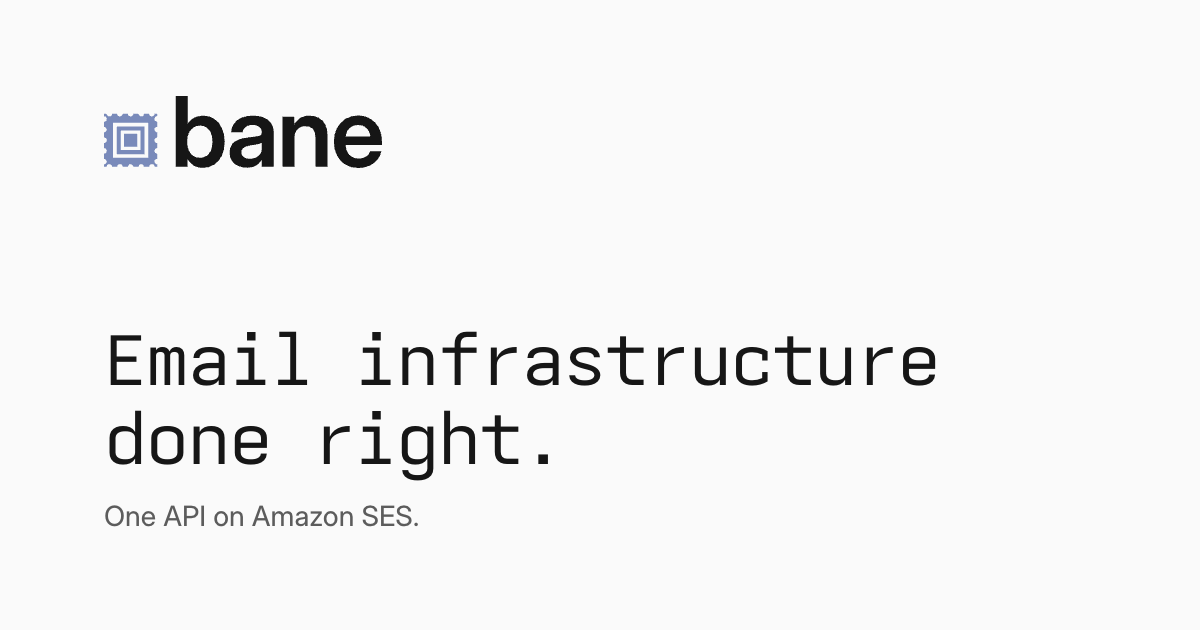
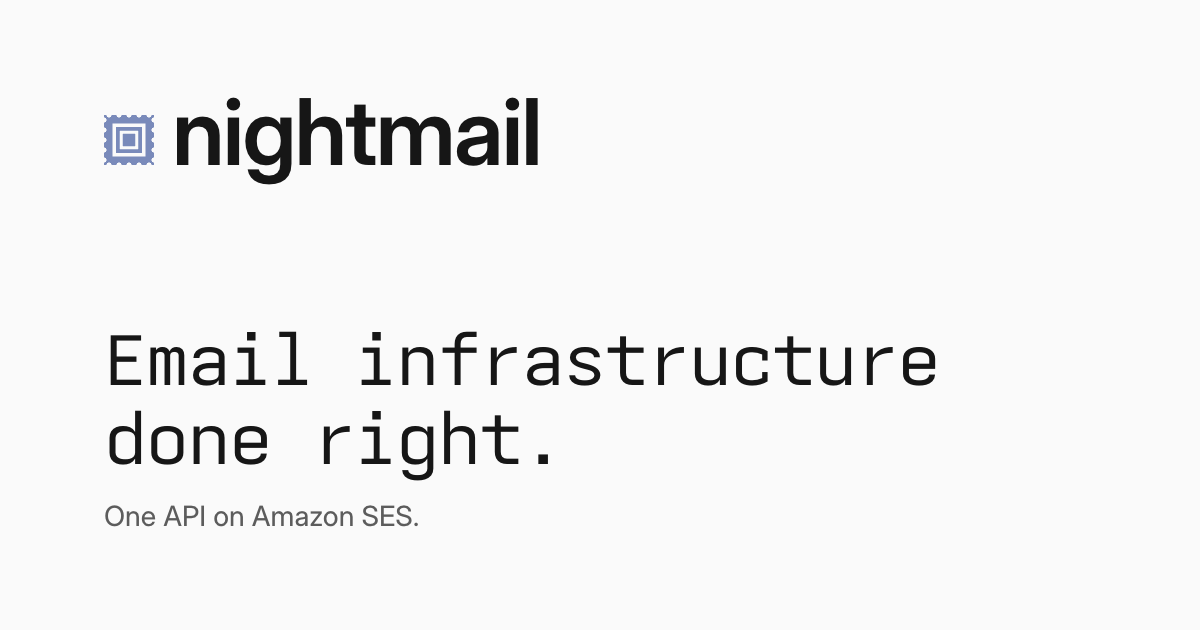
Wordmark: set "nightmail" as text next to the Stamp mark
Ryan approved showing the new name in the logo position until David's
lockup lands. BaneWordmark (sidebar and the phone top bar, onboarding,
home, legal and docs headers) now renders productName in lowercase in the
same text style beside the unchanged Stamp mark. The link-preview card
og.png is rebuilt by scripts/brand-assets.mjs with the same mark and
"nightmail" set in Inter 600 (−2%), in place of the bane lockup SVG; the
favicon and app icons are the mark alone and come out byte-identical. The
mark SVGs' <title>, the og:image alt text and docs/brand.md follow.

Kept: the Stamp mark artwork, and the outlined bane lockup SVGs in
app/public/brand/ (still used by README.md) until the new lockup replaces
them.

Verified: app tsc -b and build, api check, brand-assets.mjs rerun (only
og.png changed), and screenshots of the sidebar, phone top bar and og.png.

Changed region(s): [[0.0925, 0.1508, 0.4625, 0.3016]]

diff --git a/app/src/components/BaneLogo.tsx b/app/src/components/BaneLogo.tsx
@@ -1,8 +1,10 @@
+import { productName } from '../../../api/src/brand'
+
 /**
- * The bane lockup: the Stamp mark and "bane" in Inter 600 at the sidebar's text size, one line, the mark centred on the
- * word. Inter's cap band is centred in its line box, so flex centring puts the mark's centre on the middle of "b"'s
- * height. The mark takes --color-brand, the word the text colour. Sizes and gap are in .bane-wordmark (styles/app.css);
- * docs/brand.md has the rules, app/public/brand/ the files.
+ * The lockup: the Stamp mark and the product name in lowercase ("nightmail") in Inter 600 at the sidebar's text size,
+ * one line, the mark centred on the word. The word is set as text until the new lockup lands. The mark takes
+ * --color-brand, the word the text colour. Sizes and gap are in .bane-wordmark (styles/app.css); docs/brand.md has the
+ * rules, app/public/brand/ the files.
  */
 // The mark alone in a 100 × 100 box; its ink touches every edge, so the box's left edge is the ink's.
 const MARK = 'M0 0L4.84 0A5.16 5.16 0 0 0 15.16 0L24.84 0A5.16 5.16 0 0 0 35.16 0L44.84 0A5.16 5.16 0 0 0 55.16 0L64.84 0A5.16 5.16 0 0 0 75.16 0L84.84 0A5.16 5.16 0 0 0 95.16 0L100 0L100 4.84A5.16 5.16 0 0 0 100 15.16L100 24.84A5.16 5.16 0 0 0 100 35.16L100 44.84A5.16 5.16 0 0 0 100 55.16L100 64.84A5.16 5.16 0 0 0 100 75.16L100 84.84A5.16 5.16 0 0 0 100 95.16L100 100L95.16 100A5.16 5.16 0 0 0 84.84 100L75.16 100A5.16 5.16 0 0 0 64.84 100L55.16 100A5.16 5.16 0 0 0 44.84 100L35.16 100A5.16 5.16 0 0 0 24.84 100L15.16 100A5.16 5.16 0 0 0 4.84 100L0 100L0 95.16A5.16 5.16 0 0 0 0 84.84L0 75.16A5.16 5.16 0 0 0 0 64.84L0 55.16A5.16 5.16 0 0 0 0 44.84L0 35.16A5.16 5.16 0 0 0 0 24.84L0 15.16A5.16 5.16 0 0 0 0 4.84L0 0ZM16.98 16.98L83.02 16.98L83.02 83.02L16.98 83.02ZM23.91 23.91L76.09 23.91L76.09 76.09L23.91 76.09ZM31.48 31.48L68.52 31.48L68.52 68.52L31.48 68.52ZM37.63 37.63L62.37 37.63L62.37 62.37L37.63 62.37Z'
@@ -13,7 +15,7 @@ const a11y = (title?: string) => title ? { role: 'img', 'aria-label': title } as
 export function BaneWordmark({ className, title }: Omit<Props, 'size'>) {
   return <span className={['bane-wordmark', className].filter(Boolean).join(' ')} {...a11y(title)}>
     <BaneMark size={16} />
-    <span className="bane-wordmark__name">bane</span>
+    <span className="bane-wordmark__name">{productName.toLowerCase()}</span>
   </span>
 }
 

diff --git a/app/index.html b/app/index.html
@@ -21,12 +21,12 @@
     <meta property="og:image:type" content="image/png" />
     <meta property="og:image:width" content="1200" />
     <meta property="og:image:height" content="630" />
-    <meta property="og:image:alt" content="The bane logo above “Email infrastructure done right.”" />
+    <meta property="og:image:alt" content="The nightmail wordmark above “Email infrastructure done right.”" />
     <meta name="twitter:card" content="summary_large_image" />
     <meta name="twitter:title" content="nightmail · Email infrastructure" />
     <meta name="twitter:description" content="Email infrastructure done right. One API on Amazon SES." />
     <meta name="twitter:image" content="%BANE_ORIGIN%/og.png" />
-    <meta name="twitter:image:alt" content="The bane logo above “Email infrastructure done right.”" />
+    <meta name="twitter:image:alt" content="The nightmail wordmark above “Email infrastructure done right.”" />
     <link rel="preload" href="/fonts/inter-latin.woff2" as="font" type="font/woff2" crossorigin />
     <link rel="preload" href="/fonts/opentui-regular.woff2" as="font" type="font/woff2" crossorigin />
     <link rel="preload" href="/fonts/opentui-bold.woff2" as="font" type="font/woff2" crossorigin />

diff --git a/app/src/features/onboarding/index.tsx b/app/src/features/onboarding/index.tsx
@@ -67,7 +67,7 @@ export function OnboardingPage({ stage }: { stage: NonNullable<OnboardingStage> 
   return <div className="onboarding-shell">
     <a className="skip-link" href="#main-content">Skip to content</a>
     <header className="onboarding-header">
-      <span className="wordmark"><BaneWordmark title="bane" /></span>
+      <span className="wordmark"><BaneWordmark title={productName.toLowerCase()} /></span>
       <div className="onboarding-header-actions">
         <div className="onboarding-workspace"><AccountSwitcher /></div>
         <ThemeToggle />

diff --git a/docs/brand.md b/docs/brand.md
@@ -1,6 +1,6 @@
 # Brand
 
-The bane logo is the **Stamp** mark next to the word **bane**. The word is always lowercase.
+The logo is the **Stamp** mark next to the product name, **nightmail**. The word is always lowercase. Until the new lockup lands, the dashboard (`BaneWordmark`) and `og.png` set the word as text in the style below, and the lockup SVGs in `app/public/brand/` still spell bane.
 
 ## Files
 
